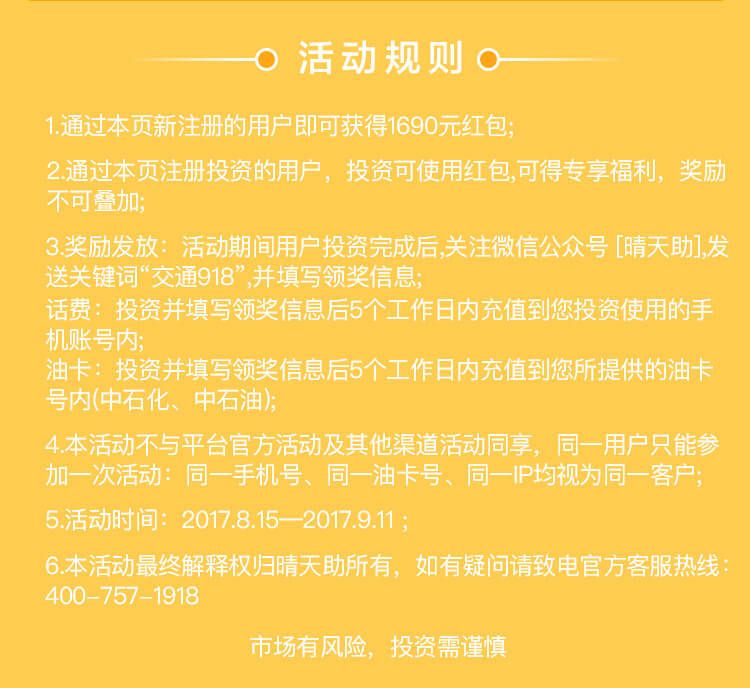
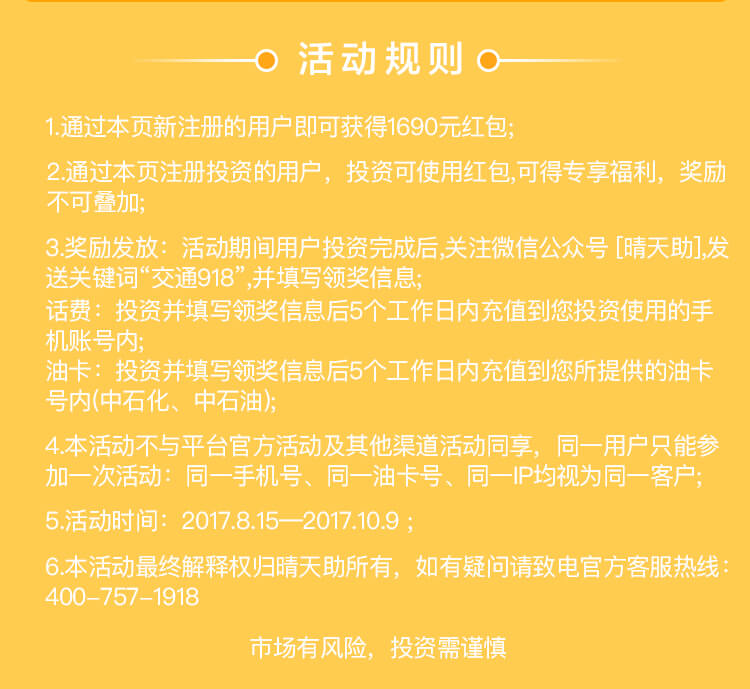
918渠道图更新

diff --git a/channelTraffic/dest2.3/style/main.min.css b/channelTraffic/dest2.3/style/main.min.css
@@ -1,2 +1,2 @@
-body,html{width:100%;height:100%}.get-check,.qtz-promise,body{text-align:center}*{margin:0;padding:0}html{font-size:100px}body{position:relative;font-family:"Helvetica Neue",Helvetica,Arial,"PingFang SC","Hiragino Sans GB","Heiti SC","Microsoft YaHei","WenQuanYi Micro Hei",sans-serif;font-size:24px;font-size:.24rem}a{text-decoration:none;-webkit-tap-highlight-color:transparent}input{outline:0;-webkit-appearance:none;-webkit-tap-highlight-color:rgba(255,255,255,0);font-size:24px;font-size:.24rem}input:focus{border:2px solid #ffc000;border:.02rem solid #ffc000;border-radius:.1rem}::-webkit-scrollbar{width:8px;width:.08rem;margin-right:.08rem}.bottom,.register-form{margin-left:auto;margin-right:auto}::-webkit-scrollbar-thumb{border-radius:.06rem;background-color:#cfcfcf;height:40px;height:.4rem}.landing-container{width:100%;height:auto}.loading-page{width:100%;height:1206px;height:12.06rem;background:url(../assets/landing_page_bg.png) center no-repeat;background-size:7.5rem 12.06rem;position:relative;top:0;overflow:hidden}.fixed-top{width:100%;height:128px;height:1.28rem;background-color:#00f;position:fixed;top:0;z-index:2}.button-red{width:197px;width:1.97rem;height:197px;height:1.97rem;position:absolute;top:920px;top:9.2rem;left:275px;left:2.75rem;-webkit-transform:rotateY(30deg);transform:rotateY(30deg);z-index:2}.landing-red{position:absolute;width:707px;width:7.07rem;height:363px;height:3.63rem;bottom:0;left:21px;left:.21rem;z-index:1}.bottom,.input-container,.register-form,.traffic_from{position:relative}.animationButton{-webkit-animation:flipOutY 1s .2s ease both;animation:flipOutY 1s .2s ease both}@-webkit-keyframes flipOutY{0%{-webkit-transform:scale3d(1,1,1) rotateY(0);transform:scale3d(1,1,1) rotateY(0);opacity:1}10%{-webkit-transform:scale3d(1.2,1.2,1.2) rotateY(0);transform:scale3d(1.2,1.2,1.2) rotateY(0);opacity:1}80%{-webkit-transform:scale3d(1.2,1.2,1.2) rotateY(360deg);transform:scale3d(1.2,1.2,1.2) rotateY(360deg);opacity:1}100%{-webkit-transform:scale3d(1,1,1) rotateY(360deg);transform:scale3d(1,1,1) rotateY(360deg);opacity:1}}@keyframes flipOutY{0%{-webkit-transform:scale3d(1,1,1) rotateY(0);transform:scale3d(1,1,1) rotateY(0);opacity:1}10%{-webkit-transform:scale3d(1.2,1.2,1.2) rotateY(0);transform:scale3d(1.2,1.2,1.2) rotateY(0);opacity:1}80%{-webkit-transform:scale3d(1.2,1.2,1.2) rotateY(360deg);transform:scale3d(1.2,1.2,1.2) rotateY(360deg);opacity:1}100%{-webkit-transform:scale3d(1,1,1) rotateY(360deg);transform:scale3d(1,1,1) rotateY(360deg);opacity:1}}.animationButtonInfinite{-webkit-animation:buttonInfinite 1s ease infinite;animation:buttonInfinite 1s ease infinite}@-webkit-keyframes buttonInfinite{0%{opacity:1;-webkit-transform:scale3d(.9,.9,.9);transform:scale3d(.9,.9,.9)}100%{opacity:.9;-webkit-transform:scale3d(1.1,1.1,1.1);transform:scale3d(1.1,1.1,1.1)}}@keyframes buttonInfinite{0%{opacity:1;-webkit-transform:scale3d(.9,.9,.9);transform:scale3d(.9,.9,.9)}100%{opacity:.9;-webkit-transform:scale3d(1.1,1.1,1.1);transform:scale3d(1.1,1.1,1.1)}}.animationPageUp{-webkit-animation:pageUp 1.5s .2s ease both;animation:pageUp 1.5s .2s ease both}@-webkit-keyframes pageUp{0%{-webkit-transform:translateY(0);transform:translateY(0);-webkit-backface-visibility:hidden}20%{-webkit-transform:translateY(.2rem);transform:translateY(.2rem);-webkit-backface-visibility:hidden}100%{-webkit-transform:translateY(-12.06rem);transform:translateY(-12.06rem);-webkit-backface-visibility:hidden;display:none}}@keyframes pageUp{0%{-webkit-transform:translateY(0);transform:translateY(0);-webkit-backface-visibility:hidden}20%{-webkit-transform:translateY(.2rem);transform:translateY(.2rem);-webkit-backface-visibility:hidden}100%{-webkit-transform:translateY(-12.06rem);transform:translateY(-12.06rem);-webkit-backface-visibility:hidden;display:none}}.animationRegisterUp{-webkit-animation:registerUp 1s 0s ease both;animation:registerUp 1s 0s ease both}@-webkit-keyframes registerUp{0%{-webkit-transform:translateY(12.03rem);transform:translateY(12.03rem)}20%{opacity:0;-webkit-transform:translateY(12.03rem);transform:translateY(12.03rem)}100%{opacity:1;-webkit-transform:translateY(0);transform:translateY(0)}}@keyframes registerUp{0%{-webkit-transform:translateY(12.03rem);transform:translateY(12.03rem)}20%{opacity:0;-webkit-transform:translateY(12.03rem);transform:translateY(12.03rem)}100%{opacity:1;-webkit-transform:translateY(0);transform:translateY(0)}}.bottom{height:auto;width:100%;display:block;background-size:7.5rem 27.03rem}.register-form{width:704px;width:7.04rem;height:855px;height:8.55rem;top:0;border:3px solid #ffb423;border:.03rem solid #ffb423;border-radius:.1rem;background-color:#fff;color:#adadad}.traffic_register_bg{position:relative;width:100%;padding:0;border:0;margin:0;display:block}.traffic_from{width:100%;height:auto;padding-top:.35rem;background-color:#ffcb5b}.register-center{width:660px;width:6.6rem;height:715px;height:7.15rem;margin:0 auto}.qtz-promise{display:block;width:100%;height:76px;height:.76rem;line-height:76px;line-height:.76rem}.input-container{width:100%;height:89px;height:.89rem;margin-top:.5rem}.input-container>p{display:block;position:absolute;width:300px;width:3rem;height:66px;height:.66rem;background:rgba(0,0,0,.5);color:#fff;text-align:center;line-height:66px;line-height:.66rem;top:-33px;top:-.33rem;left:180px;left:1.8rem;border-radius:.15rem}.agree-consent>a,.get-check{color:#ffc000}.input-container>img{position:absolute;width:44px;width:.44rem;height:44px;height:.44rem;top:22px;top:.22rem;right:29px;right:.29rem}.input-same{display:block;width:628px;width:6.28rem;height:86px;height:.86rem;padding-left:.3rem;outline:hidden;border:2px solid #adadad;border:.02rem solid #adadad;border-radius:.1rem}.get-check{width:172px;width:1.72rem;border-left:1px solid #adadad;border-left:.01rem solid #adadad;height:50px;height:.5rem;line-height:50px;line-height:.5rem;position:absolute;top:18px;top:.18rem;right:0}.agree-consent{width:100%;height:72px;height:.72rem;text-align:left;line-height:72px;line-height:.72rem}.now-register{display:block;width:100%;height:97px;height:.97rem;background:url(../assets/register-button.png) center no-repeat;background-size:100% 100%;overflow:hidden}.now-register:hover{-webkit-animation:registerButton .5s .1s ease both;animation:registerButton .5s .1s ease both}@-webkit-keyframes registerButton{0%,100%{background-size:100% 100%}50%{background-size:102% 102%}}@keyframes registerButton{0%,100%{background-size:100% 100%}50%{background-size:102% 102%}}.readyed-register{width:100%;display:block;height:56px;height:.56rem;text-align:center;line-height:56px;line-height:.56rem}.readyed-register>a{padding-left:.22rem;color:#ffc000}.get-red-container{position:relative;width:750px;width:7.5rem;height:1206px;height:12.06rem;overflow:hidden;background:url(../assets/traffic-download-bg.png) center no-repeat;background-size:7.5rem 12.06rem}.download-app-link{position:absolute;display:block;width:568px;width:5.68rem;height:106px;height:1.06rem;background:url(../assets/down-app-button@2x.png) center no-repeat;background-size:100% 100%;top:921px;top:9.21rem;left:100px;left:1rem}.red-rules-but{position:absolute;width:153px;width:1.53rem;height:185px;height:1.85rem;background:url(../assets/red-rules-but@2x.png) center no-repeat;background-size:100% 100%;top:370px;top:3.7rem;right:0;z-index:1}.red-bg-container{display:none;width:750px;width:7.5rem;background:rgba(0,0,0,.6);height:2410px;height:24.1rem;position:fixed;top:0;z-index:2}.rules-list-bg{width:703px;width:7.03rem;height:716px;height:7.16rem;position:absolute;top:90px;top:.9rem;background:url(../assets/red-rule-list@2x.png) center no-repeat;background-size:7.03rem 7.16rem;left:42px;left:.42rem}.rules-black-bg{position:absolute;top:90px;top:.9rem;left:17px;left:.17rem;width:642px;width:6.42rem;height:518px;height:5.18rem;overflow:hidden}.rules-black-bg>div{width:100%;height:518px;height:5.18rem;overflow-x:hidden;overflow-y:scroll}.rules-black-bg>div>img{width:100%;height:1010px;height:10.1rem}.close-bg{width:68px;width:.68rem;height:68px;height:.68rem;position:absolute;left:290px;left:2.9rem;bottom:-68px;bottom:-.68rem;background:url(../assets/close-bg@2x.png) center no-repeat;background-size:100% 100%}.animationRulesText{-webkit-animation:bounceInText 1s .2s ease both;animation:bounceInText 1s .2s ease both}@-webkit-keyframes bounceInText{0%{opacity:0;-webkit-transform:scale(.3);transform:scale(.3)}50%{opacity:1;-webkit-transform:scale(1.05);transform:scale(1.05)}70%{-webkit-transform:scale(.9);transform:scale(.9)}100%{-webkit-transform:scale(1);transform:scale(1)}}@keyframes bounceInText{0%{opacity:0;-webkit-transform:scale(.3);transform:scale(.3)}50%{opacity:1;-webkit-transform:scale(1.05);transform:scale(1.05)}70%{-webkit-transform:scale(.9);transform:scale(.9)}100%{-webkit-transform:scale(1);transform:scale(1)}}.animationRulesOutContent{-webkit-animation:bounceOutContent 1s .2s ease both;animation:bounceOutContent 1s .2s ease both}@-webkit-keyframes bounceOutContent{0%{-webkit-transform:scale(1);transform:scale(1)}25%{-webkit-transform:scale(.95);transform:scale(.95)}50%{opacity:1;-webkit-transform:scale(1.1);transform:scale(1.1)}100%{opacity:0;-webkit-transform:scale(.3);transform:scale(.3)}}@keyframes bounceOutContent{0%{-webkit-transform:scale(1);transform:scale(1)}25%{-webkit-transform:scale(.95);transform:scale(.95)}50%{opacity:1;-webkit-transform:scale(1.1);transform:scale(1.1)}100%{opacity:0;-webkit-transform:scale(.3);transform:scale(.3)}}.download-app-link:focus{-webkit-transform:scale(.98);-ms-transform:scale(.98);transform:scale(.98)}
[1 lines of base64/hex data omitted]
+body,html{width:100%;height:100%}.get-check,.qtz-promise,body{text-align:center}*{margin:0;padding:0}html{font-size:100px}body{position:relative;font-family:"Helvetica Neue",Helvetica,Arial,"PingFang SC","Hiragino Sans GB","Heiti SC","Microsoft YaHei","WenQuanYi Micro Hei",sans-serif;font-size:24px;font-size:.24rem}a{text-decoration:none;-webkit-tap-highlight-color:transparent}input{outline:0;-webkit-appearance:none;-webkit-tap-highlight-color:rgba(255,255,255,0);font-size:24px;font-size:.24rem}input:focus{border:2px solid #ffc000;border:.02rem solid #ffc000;border-radius:.1rem}::-webkit-scrollbar{width:8px;width:.08rem;margin-right:.08rem}.bottom,.register-form{margin-left:auto;margin-right:auto}::-webkit-scrollbar-thumb{border-radius:.06rem;background-color:#cfcfcf;height:40px;height:.4rem}.landing-container{width:100%;height:auto}.loading-page{width:100%;height:1206px;height:12.06rem;background:url(../assets/landing_page_bg.png) center no-repeat;background-size:7.5rem 12.06rem;position:relative;top:0;overflow:hidden}.fixed-top{width:100%;height:128px;height:1.28rem;background-color:#00f;position:fixed;top:0;z-index:2}.button-red{width:197px;width:1.97rem;height:197px;height:1.97rem;position:absolute;top:920px;top:9.2rem;left:275px;left:2.75rem;-webkit-transform:rotateY(30deg);transform:rotateY(30deg);z-index:2}.landing-red{position:absolute;width:707px;width:7.07rem;height:363px;height:3.63rem;bottom:0;left:21px;left:.21rem;z-index:1}.bottom,.input-container,.register-form,.traffic_from{position:relative}.animationButton{-webkit-animation:flipOutY 1s .2s ease both;animation:flipOutY 1s .2s ease both}@-webkit-keyframes flipOutY{0%{-webkit-transform:scale3d(1,1,1) rotateY(0);transform:scale3d(1,1,1) rotateY(0);opacity:1}10%{-webkit-transform:scale3d(1.2,1.2,1.2) rotateY(0);transform:scale3d(1.2,1.2,1.2) rotateY(0);opacity:1}80%{-webkit-transform:scale3d(1.2,1.2,1.2) rotateY(360deg);transform:scale3d(1.2,1.2,1.2) rotateY(360deg);opacity:1}100%{-webkit-transform:scale3d(1,1,1) rotateY(360deg);transform:scale3d(1,1,1) rotateY(360deg);opacity:1}}@keyframes flipOutY{0%{-webkit-transform:scale3d(1,1,1) rotateY(0);transform:scale3d(1,1,1) rotateY(0);opacity:1}10%{-webkit-transform:scale3d(1.2,1.2,1.2) rotateY(0);transform:scale3d(1.2,1.2,1.2) rotateY(0);opacity:1}80%{-webkit-transform:scale3d(1.2,1.2,1.2) rotateY(360deg);transform:scale3d(1.2,1.2,1.2) rotateY(360deg);opacity:1}100%{-webkit-transform:scale3d(1,1,1) rotateY(360deg);transform:scale3d(1,1,1) rotateY(360deg);opacity:1}}.animationButtonInfinite{-webkit-animation:buttonInfinite 1s ease infinite;animation:buttonInfinite 1s ease infinite}@-webkit-keyframes buttonInfinite{0%{opacity:1;-webkit-transform:scale3d(.9,.9,.9);transform:scale3d(.9,.9,.9)}100%{opacity:.9;-webkit-transform:scale3d(1.1,1.1,1.1);transform:scale3d(1.1,1.1,1.1)}}@keyframes buttonInfinite{0%{opacity:1;-webkit-transform:scale3d(.9,.9,.9);transform:scale3d(.9,.9,.9)}100%{opacity:.9;-webkit-transform:scale3d(1.1,1.1,1.1);transform:scale3d(1.1,1.1,1.1)}}.animationPageUp{-webkit-animation:pageUp 1.5s .2s ease both;animation:pageUp 1.5s .2s ease both}@-webkit-keyframes pageUp{0%{-webkit-transform:translateY(0);transform:translateY(0);-webkit-backface-visibility:hidden}20%{-webkit-transform:translateY(.2rem);transform:translateY(.2rem);-webkit-backface-visibility:hidden}100%{-webkit-transform:translateY(-12.06rem);transform:translateY(-12.06rem);-webkit-backface-visibility:hidden;display:none}}@keyframes pageUp{0%{-webkit-transform:translateY(0);transform:translateY(0);-webkit-backface-visibility:hidden}20%{-webkit-transform:translateY(.2rem);transform:translateY(.2rem);-webkit-backface-visibility:hidden}100%{-webkit-transform:translateY(-12.06rem);transform:translateY(-12.06rem);-webkit-backface-visibility:hidden;display:none}}.animationRegisterUp{-webkit-animation:registerUp 1s 0s ease both;animation:registerUp 1s 0s ease both}@-webkit-keyframes registerUp{0%{-webkit-transform:translateY(12.03rem);transform:translateY(12.03rem)}20%{opacity:0;-webkit-transform:translateY(12.03rem);transform:translateY(12.03rem)}100%{opacity:1;-webkit-transform:translateY(0);transform:translateY(0)}}@keyframes registerUp{0%{-webkit-transform:translateY(12.03rem);transform:translateY(12.03rem)}20%{opacity:0;-webkit-transform:translateY(12.03rem);transform:translateY(12.03rem)}100%{opacity:1;-webkit-transform:translateY(0);transform:translateY(0)}}.bottom{height:auto;width:100%;display:block;background-size:7.5rem 27.03rem}.register-form{width:704px;width:7.04rem;height:855px;height:8.55rem;top:0;border:3px solid #ffb423;border:.03rem solid #ffb423;border-radius:.1rem;background-color:#fff;color:#adadad}.traffic_register_bg{position:relative;width:100%;padding:0;border:0;margin:0;display:block}.traffic_from{width:100%;height:auto;padding-top:.5rem;padding-bottom:.1rem;background-color:#ffcb5b}.register-center{width:660px;width:6.6rem;height:715px;height:7.15rem;margin:0 auto}.qtz-promise{display:block;width:100%;height:76px;height:.76rem;line-height:76px;line-height:.76rem}.input-container{width:100%;height:89px;height:.89rem;margin-top:.5rem}.input-container>p{display:block;position:absolute;width:300px;width:3rem;height:66px;height:.66rem;background:rgba(0,0,0,.5);color:#fff;text-align:center;line-height:66px;line-height:.66rem;top:-33px;top:-.33rem;left:180px;left:1.8rem;border-radius:.15rem}.agree-consent>a,.get-check{color:#ffc000}.input-container>img{position:absolute;width:44px;width:.44rem;height:44px;height:.44rem;top:22px;top:.22rem;right:29px;right:.29rem}.input-same{display:block;width:628px;width:6.28rem;height:86px;height:.86rem;padding-left:.3rem;outline:hidden;border:2px solid #adadad;border:.02rem solid #adadad;border-radius:.1rem}.get-check{width:172px;width:1.72rem;border-left:1px solid #adadad;border-left:.01rem solid #adadad;height:50px;height:.5rem;line-height:50px;line-height:.5rem;position:absolute;top:18px;top:.18rem;right:0}.agree-consent{width:100%;height:72px;height:.72rem;text-align:left;line-height:72px;line-height:.72rem}.now-register{display:block;width:100%;height:97px;height:.97rem;background:url(../assets/register-button.png) center no-repeat;background-size:100% 100%;overflow:hidden}.now-register:hover{-webkit-animation:registerButton .5s .1s ease both;animation:registerButton .5s .1s ease both}@-webkit-keyframes registerButton{0%,100%{background-size:100% 100%}50%{background-size:102% 102%}}@keyframes registerButton{0%,100%{background-size:100% 100%}50%{background-size:102% 102%}}.readyed-register{width:100%;display:block;height:56px;height:.56rem;text-align:center;line-height:56px;line-height:.56rem}.readyed-register>a{padding-left:.22rem;color:#ffc000}.get-red-container{position:relative;width:750px;width:7.5rem;height:1206px;height:12.06rem;overflow:hidden;background:url(../assets/traffic-download-bg.png) center no-repeat;background-size:7.5rem 12.06rem}.download-app-link{position:absolute;display:block;width:568px;width:5.68rem;height:106px;height:1.06rem;background:url(../assets/down-app-button@2x.png) center no-repeat;background-size:100% 100%;top:921px;top:9.21rem;left:100px;left:1rem}.red-rules-but{position:absolute;width:153px;width:1.53rem;height:185px;height:1.85rem;background:url(../assets/red-rules-but@2x.png) center no-repeat;background-size:100% 100%;top:370px;top:3.7rem;right:0;z-index:1}.red-bg-container{display:none;width:750px;width:7.5rem;background:rgba(0,0,0,.6);height:2410px;height:24.1rem;position:fixed;top:0;z-index:2}.rules-list-bg{width:703px;width:7.03rem;height:716px;height:7.16rem;position:absolute;top:90px;top:.9rem;background:url(../assets/red-rule-list@2x.png) center no-repeat;background-size:7.03rem 7.16rem;left:42px;left:.42rem}.rules-black-bg{position:absolute;top:90px;top:.9rem;left:17px;left:.17rem;width:642px;width:6.42rem;height:518px;height:5.18rem;overflow:hidden}.rules-black-bg>div{width:100%;height:518px;height:5.18rem;overflow-x:hidden;overflow-y:scroll}.rules-black-bg>div>img{width:100%;height:1010px;height:10.1rem}.close-bg{width:68px;width:.68rem;height:68px;height:.68rem;position:absolute;left:290px;left:2.9rem;bottom:-68px;bottom:-.68rem;background:url(../assets/close-bg@2x.png) center no-repeat;background-size:100% 100%}.animationRulesText{-webkit-animation:bounceInText 1s .2s ease both;animation:bounceInText 1s .2s ease both}@-webkit-keyframes bounceInText{0%{opacity:0;-webkit-transform:scale(.3);transform:scale(.3)}50%{opacity:1;-webkit-transform:scale(1.05);transform:scale(1.05)}70%{-webkit-transform:scale(.9);transform:scale(.9)}100%{-webkit-transform:scale(1);transform:scale(1)}}@keyframes bounceInText{0%{opacity:0;-webkit-transform:scale(.3);transform:scale(.3)}50%{opacity:1;-webkit-transform:scale(1.05);transform:scale(1.05)}70%{-webkit-transform:scale(.9);transform:scale(.9)}100%{-webkit-transform:scale(1);transform:scale(1)}}.animationRulesOutContent{-webkit-animation:bounceOutContent 1s .2s ease both;animation:bounceOutContent 1s .2s ease both}@-webkit-keyframes bounceOutContent{0%{-webkit-transform:scale(1);transform:scale(1)}25%{-webkit-transform:scale(.95);transform:scale(.95)}50%{opacity:1;-webkit-transform:scale(1.1);transform:scale(1.1)}100%{opacity:0;-webkit-transform:scale(.3);transform:scale(.3)}}@keyframes bounceOutContent{0%{-webkit-transform:scale(1);transform:scale(1)}25%{-webkit-transform:scale(.95);transform:scale(.95)}50%{opacity:1;-webkit-transform:scale(1.1);transform:scale(1.1)}100%{opacity:0;-webkit-transform:scale(.3);transform:scale(.3)}}.download-app-link:focus{-webkit-transform:scale(.98);-ms-transform:scale(.98);transform:scale(.98)}
[1 lines of base64/hex data omitted]

diff --git a/channelWeChat/dest2.3/style/main.min.css b/channelWeChat/dest2.3/style/main.min.css
@@ -1,2 +1,2 @@
-body,html{width:100%;height:100%}.get-check,.qtz-promise,body{text-align:center}*{margin:0;padding:0}html{font-size:100px}body{position:relative;font-family:"Helvetica Neue",Helvetica,Arial,"PingFang SC","Hiragino Sans GB","Heiti SC","Microsoft YaHei","WenQuanYi Micro Hei",sans-serif;font-size:24px;font-size:.24rem}a{text-decoration:none;-webkit-tap-highlight-color:transparent}input{outline:0;-webkit-appearance:none;-webkit-tap-highlight-color:rgba(255,255,255,0);font-size:24px;font-size:.24rem}input:focus{border:2px solid #ffc000;border:.02rem solid #ffc000;border-radius:.1rem}::-webkit-scrollbar{width:8px;width:.08rem;margin-right:.08rem}.bottom,.register-form{margin-left:auto;margin-right:auto}::-webkit-scrollbar-thumb{border-radius:.06rem;background-color:#cfcfcf;height:40px;height:.4rem}.landing-container{width:100%;height:auto}.loading-page{width:100%;height:1206px;height:12.06rem;background:url(../assets/landing_page_bg.png) center no-repeat;background-size:7.5rem 12.06rem;position:relative;top:0;overflow:hidden}.fixed-top{width:100%;height:128px;height:1.28rem;background-color:#00f;position:fixed;top:0;z-index:2}.button-red{width:197px;width:1.97rem;height:197px;height:1.97rem;position:absolute;top:920px;top:9.2rem;left:275px;left:2.75rem;-webkit-transform:rotateY(30deg);transform:rotateY(30deg);z-index:2}.landing-red{position:absolute;width:707px;width:7.07rem;height:363px;height:3.63rem;bottom:0;left:21px;left:.21rem;z-index:1}.bottom,.input-container,.register-form,.traffic_from{position:relative}.animationButton{-webkit-animation:flipOutY 1s .2s ease both;animation:flipOutY 1s .2s ease both}@-webkit-keyframes flipOutY{0%{-webkit-transform:scale3d(1,1,1) rotateY(0);transform:scale3d(1,1,1) rotateY(0);opacity:1}10%{-webkit-transform:scale3d(1.2,1.2,1.2) rotateY(0);transform:scale3d(1.2,1.2,1.2) rotateY(0);opacity:1}80%{-webkit-transform:scale3d(1.2,1.2,1.2) rotateY(360deg);transform:scale3d(1.2,1.2,1.2) rotateY(360deg);opacity:1}100%{-webkit-transform:scale3d(1,1,1) rotateY(360deg);transform:scale3d(1,1,1) rotateY(360deg);opacity:1}}@keyframes flipOutY{0%{-webkit-transform:scale3d(1,1,1) rotateY(0);transform:scale3d(1,1,1) rotateY(0);opacity:1}10%{-webkit-transform:scale3d(1.2,1.2,1.2) rotateY(0);transform:scale3d(1.2,1.2,1.2) rotateY(0);opacity:1}80%{-webkit-transform:scale3d(1.2,1.2,1.2) rotateY(360deg);transform:scale3d(1.2,1.2,1.2) rotateY(360deg);opacity:1}100%{-webkit-transform:scale3d(1,1,1) rotateY(360deg);transform:scale3d(1,1,1) rotateY(360deg);opacity:1}}.animationButtonInfinite{-webkit-animation:buttonInfinite 1s ease infinite;animation:buttonInfinite 1s ease infinite}@-webkit-keyframes buttonInfinite{0%{opacity:1;-webkit-transform:scale3d(.9,.9,.9);transform:scale3d(.9,.9,.9)}100%{opacity:.9;-webkit-transform:scale3d(1.1,1.1,1.1);transform:scale3d(1.1,1.1,1.1)}}@keyframes buttonInfinite{0%{opacity:1;-webkit-transform:scale3d(.9,.9,.9);transform:scale3d(.9,.9,.9)}100%{opacity:.9;-webkit-transform:scale3d(1.1,1.1,1.1);transform:scale3d(1.1,1.1,1.1)}}.animationPageUp{-webkit-animation:pageUp 1.5s .2s ease both;animation:pageUp 1.5s .2s ease both}@-webkit-keyframes pageUp{0%{-webkit-transform:translateY(0);transform:translateY(0);-webkit-backface-visibility:hidden}20%{-webkit-transform:translateY(.2rem);transform:translateY(.2rem);-webkit-backface-visibility:hidden}100%{-webkit-transform:translateY(-12.06rem);transform:translateY(-12.06rem);-webkit-backface-visibility:hidden;display:none}}@keyframes pageUp{0%{-webkit-transform:translateY(0);transform:translateY(0);-webkit-backface-visibility:hidden}20%{-webkit-transform:translateY(.2rem);transform:translateY(.2rem);-webkit-backface-visibility:hidden}100%{-webkit-transform:translateY(-12.06rem);transform:translateY(-12.06rem);-webkit-backface-visibility:hidden;display:none}}.animationRegisterUp{-webkit-animation:registerUp 1s 0s ease both;animation:registerUp 1s 0s ease both}@-webkit-keyframes registerUp{0%{-webkit-transform:translateY(12.03rem);transform:translateY(12.03rem)}20%{opacity:0;-webkit-transform:translateY(12.03rem);transform:translateY(12.03rem)}100%{opacity:1;-webkit-transform:translateY(0);transform:translateY(0)}}@keyframes registerUp{0%{-webkit-transform:translateY(12.03rem);transform:translateY(12.03rem)}20%{opacity:0;-webkit-transform:translateY(12.03rem);transform:translateY(12.03rem)}100%{opacity:1;-webkit-transform:translateY(0);transform:translateY(0)}}.bottom{height:auto;width:100%;display:block;background-size:7.5rem 27.03rem}.register-form{width:704px;width:7.04rem;height:855px;height:8.55rem;top:0;border:3px solid #ffb423;border:.03rem solid #ffb423;border-radius:.1rem;background-color:#fff;color:#adadad}.traffic_register_bg{position:relative;width:100%;padding:0;border:0;margin:0;display:block}.traffic_from{width:100%;height:auto;padding-top:.35rem;background-color:#ffcb5b}.register-center{width:660px;width:6.6rem;height:715px;height:7.15rem;margin:0 auto}.qtz-promise{display:block;width:100%;height:76px;height:.76rem;line-height:76px;line-height:.76rem}.input-container{width:100%;height:89px;height:.89rem;margin-top:.5rem}.input-container>p{display:block;position:absolute;width:300px;width:3rem;height:66px;height:.66rem;background:rgba(0,0,0,.5);color:#fff;text-align:center;line-height:66px;line-height:.66rem;top:-33px;top:-.33rem;left:180px;left:1.8rem;border-radius:.15rem}.agree-consent>a,.get-check{color:#ffc000}.input-container>img{position:absolute;width:44px;width:.44rem;height:44px;height:.44rem;top:22px;top:.22rem;right:29px;right:.29rem}.input-same{display:block;width:628px;width:6.28rem;height:86px;height:.86rem;padding-left:.3rem;outline:hidden;border:2px solid #adadad;border:.02rem solid #adadad;border-radius:.1rem}.get-check{width:172px;width:1.72rem;border-left:1px solid #adadad;border-left:.01rem solid #adadad;height:50px;height:.5rem;line-height:50px;line-height:.5rem;position:absolute;top:18px;top:.18rem;right:0}.agree-consent{width:100%;height:72px;height:.72rem;text-align:left;line-height:72px;line-height:.72rem}.now-register{display:block;width:100%;height:97px;height:.97rem;background:url(../assets/register-button.png) center no-repeat;background-size:100% 100%;overflow:hidden}.now-register:hover{-webkit-animation:registerButton .5s .1s ease both;animation:registerButton .5s .1s ease both}@-webkit-keyframes registerButton{0%,100%{background-size:100% 100%}50%{background-size:102% 102%}}@keyframes registerButton{0%,100%{background-size:100% 100%}50%{background-size:102% 102%}}.readyed-register{width:100%;display:block;height:56px;height:.56rem;text-align:center;line-height:56px;line-height:.56rem}.readyed-register>a{padding-left:.22rem;color:#ffc000}.get-red-container{position:relative;width:750px;width:7.5rem;height:1206px;height:12.06rem;overflow:hidden;background:url(../assets/traffic-download-bg.png) center no-repeat;background-size:7.5rem 12.06rem}.download-app-link{position:absolute;display:block;width:568px;width:5.68rem;height:106px;height:1.06rem;background:url(../assets/down-app-button@2x.png) center no-repeat;background-size:100% 100%;top:921px;top:9.21rem;left:100px;left:1rem}.red-rules-but{position:absolute;width:153px;width:1.53rem;height:185px;height:1.85rem;background:url(../assets/red-rules-but@2x.png) center no-repeat;background-size:100% 100%;top:370px;top:3.7rem;right:0;z-index:1}.red-bg-container{display:none;width:750px;width:7.5rem;background:rgba(0,0,0,.6);height:2410px;height:24.1rem;position:fixed;top:0;z-index:2}.rules-list-bg{width:703px;width:7.03rem;height:716px;height:7.16rem;position:absolute;top:90px;top:.9rem;background:url(../assets/red-rule-list@2x.png) center no-repeat;background-size:7.03rem 7.16rem;left:42px;left:.42rem}.rules-black-bg{position:absolute;top:90px;top:.9rem;left:17px;left:.17rem;width:642px;width:6.42rem;height:518px;height:5.18rem;overflow:hidden}.rules-black-bg>div{width:100%;height:518px;height:5.18rem;overflow-x:hidden;overflow-y:scroll}.rules-black-bg>div>img{width:100%;height:1010px;height:10.1rem}.close-bg{width:68px;width:.68rem;height:68px;height:.68rem;position:absolute;left:290px;left:2.9rem;bottom:-68px;bottom:-.68rem;background:url(../assets/close-bg@2x.png) center no-repeat;background-size:100% 100%}.animationRulesText{-webkit-animation:bounceInText 1s .2s ease both;animation:bounceInText 1s .2s ease both}@-webkit-keyframes bounceInText{0%{opacity:0;-webkit-transform:scale(.3);transform:scale(.3)}50%{opacity:1;-webkit-transform:scale(1.05);transform:scale(1.05)}70%{-webkit-transform:scale(.9);transform:scale(.9)}100%{-webkit-transform:scale(1);transform:scale(1)}}@keyframes bounceInText{0%{opacity:0;-webkit-transform:scale(.3);transform:scale(.3)}50%{opacity:1;-webkit-transform:scale(1.05);transform:scale(1.05)}70%{-webkit-transform:scale(.9);transform:scale(.9)}100%{-webkit-transform:scale(1);transform:scale(1)}}.animationRulesOutContent{-webkit-animation:bounceOutContent 1s .2s ease both;animation:bounceOutContent 1s .2s ease both}@-webkit-keyframes bounceOutContent{0%{-webkit-transform:scale(1);transform:scale(1)}25%{-webkit-transform:scale(.95);transform:scale(.95)}50%{opacity:1;-webkit-transform:scale(1.1);transform:scale(1.1)}100%{opacity:0;-webkit-transform:scale(.3);transform:scale(.3)}}@keyframes bounceOutContent{0%{-webkit-transform:scale(1);transform:scale(1)}25%{-webkit-transform:scale(.95);transform:scale(.95)}50%{opacity:1;-webkit-transform:scale(1.1);transform:scale(1.1)}100%{opacity:0;-webkit-transform:scale(.3);transform:scale(.3)}}.download-app-link:focus{-webkit-transform:scale(.98);-ms-transform:scale(.98);transform:scale(.98)}
[1 lines of base64/hex data omitted]
+body,html{width:100%;height:100%}.get-check,.qtz-promise,body{text-align:center}*{margin:0;padding:0}html{font-size:100px}body{position:relative;font-family:"Helvetica Neue",Helvetica,Arial,"PingFang SC","Hiragino Sans GB","Heiti SC","Microsoft YaHei","WenQuanYi Micro Hei",sans-serif;font-size:24px;font-size:.24rem}a{text-decoration:none;-webkit-tap-highlight-color:transparent}input{outline:0;-webkit-appearance:none;-webkit-tap-highlight-color:rgba(255,255,255,0);font-size:24px;font-size:.24rem}input:focus{border:2px solid #ffc000;border:.02rem solid #ffc000;border-radius:.1rem}::-webkit-scrollbar{width:8px;width:.08rem;margin-right:.08rem}.bottom,.register-form{margin-left:auto;margin-right:auto}::-webkit-scrollbar-thumb{border-radius:.06rem;background-color:#cfcfcf;height:40px;height:.4rem}.landing-container{width:100%;height:auto}.loading-page{width:100%;height:1206px;height:12.06rem;background:url(../assets/landing_page_bg.png) center no-repeat;background-size:7.5rem 12.06rem;position:relative;top:0;overflow:hidden}.fixed-top{width:100%;height:128px;height:1.28rem;background-color:#00f;position:fixed;top:0;z-index:2}.button-red{width:197px;width:1.97rem;height:197px;height:1.97rem;position:absolute;top:920px;top:9.2rem;left:275px;left:2.75rem;-webkit-transform:rotateY(30deg);transform:rotateY(30deg);z-index:2}.landing-red{position:absolute;width:707px;width:7.07rem;height:363px;height:3.63rem;bottom:0;left:21px;left:.21rem;z-index:1}.bottom,.input-container,.register-form,.traffic_from{position:relative}.animationButton{-webkit-animation:flipOutY 1s .2s ease both;animation:flipOutY 1s .2s ease both}@-webkit-keyframes flipOutY{0%{-webkit-transform:scale3d(1,1,1) rotateY(0);transform:scale3d(1,1,1) rotateY(0);opacity:1}10%{-webkit-transform:scale3d(1.2,1.2,1.2) rotateY(0);transform:scale3d(1.2,1.2,1.2) rotateY(0);opacity:1}80%{-webkit-transform:scale3d(1.2,1.2,1.2) rotateY(360deg);transform:scale3d(1.2,1.2,1.2) rotateY(360deg);opacity:1}100%{-webkit-transform:scale3d(1,1,1) rotateY(360deg);transform:scale3d(1,1,1) rotateY(360deg);opacity:1}}@keyframes flipOutY{0%{-webkit-transform:scale3d(1,1,1) rotateY(0);transform:scale3d(1,1,1) rotateY(0);opacity:1}10%{-webkit-transform:scale3d(1.2,1.2,1.2) rotateY(0);transform:scale3d(1.2,1.2,1.2) rotateY(0);opacity:1}80%{-webkit-transform:scale3d(1.2,1.2,1.2) rotateY(360deg);transform:scale3d(1.2,1.2,1.2) rotateY(360deg);opacity:1}100%{-webkit-transform:scale3d(1,1,1) rotateY(360deg);transform:scale3d(1,1,1) rotateY(360deg);opacity:1}}.animationButtonInfinite{-webkit-animation:buttonInfinite 1s ease infinite;animation:buttonInfinite 1s ease infinite}@-webkit-keyframes buttonInfinite{0%{opacity:1;-webkit-transform:scale3d(.9,.9,.9);transform:scale3d(.9,.9,.9)}100%{opacity:.9;-webkit-transform:scale3d(1.1,1.1,1.1);transform:scale3d(1.1,1.1,1.1)}}@keyframes buttonInfinite{0%{opacity:1;-webkit-transform:scale3d(.9,.9,.9);transform:scale3d(.9,.9,.9)}100%{opacity:.9;-webkit-transform:scale3d(1.1,1.1,1.1);transform:scale3d(1.1,1.1,1.1)}}.animationPageUp{-webkit-animation:pageUp 1.5s .2s ease both;animation:pageUp 1.5s .2s ease both}@-webkit-keyframes pageUp{0%{-webkit-transform:translateY(0);transform:translateY(0);-webkit-backface-visibility:hidden}20%{-webkit-transform:translateY(.2rem);transform:translateY(.2rem);-webkit-backface-visibility:hidden}100%{-webkit-transform:translateY(-12.06rem);transform:translateY(-12.06rem);-webkit-backface-visibility:hidden;display:none}}@keyframes pageUp{0%{-webkit-transform:translateY(0);transform:translateY(0);-webkit-backface-visibility:hidden}20%{-webkit-transform:translateY(.2rem);transform:translateY(.2rem);-webkit-backface-visibility:hidden}100%{-webkit-transform:translateY(-12.06rem);transform:translateY(-12.06rem);-webkit-backface-visibility:hidden;display:none}}.animationRegisterUp{-webkit-animation:registerUp 1s 0s ease both;animation:registerUp 1s 0s ease both}@-webkit-keyframes registerUp{0%{-webkit-transform:translateY(12.03rem);transform:translateY(12.03rem)}20%{opacity:0;-webkit-transform:translateY(12.03rem);transform:translateY(12.03rem)}100%{opacity:1;-webkit-transform:translateY(0);transform:translateY(0)}}@keyframes registerUp{0%{-webkit-transform:translateY(12.03rem);transform:translateY(12.03rem)}20%{opacity:0;-webkit-transform:translateY(12.03rem);transform:translateY(12.03rem)}100%{opacity:1;-webkit-transform:translateY(0);transform:translateY(0)}}.bottom{height:auto;width:100%;display:block;background-size:7.5rem 27.03rem}.register-form{width:704px;width:7.04rem;height:855px;height:8.55rem;top:0;border:3px solid #ffb423;border:.03rem solid #ffb423;border-radius:.1rem;background-color:#fff;color:#adadad}.traffic_register_bg{position:relative;width:100%;padding:0;border:0;margin:0;display:block}.traffic_from{width:100%;height:auto;padding-top:.5rem;padding-bottom:.1rem;background-color:#ffcb5b}.register-center{width:660px;width:6.6rem;height:715px;height:7.15rem;margin:0 auto}.qtz-promise{display:block;width:100%;height:76px;height:.76rem;line-height:76px;line-height:.76rem}.input-container{width:100%;height:89px;height:.89rem;margin-top:.5rem}.input-container>p{display:block;position:absolute;width:300px;width:3rem;height:66px;height:.66rem;background:rgba(0,0,0,.5);color:#fff;text-align:center;line-height:66px;line-height:.66rem;top:-33px;top:-.33rem;left:180px;left:1.8rem;border-radius:.15rem}.agree-consent>a,.get-check{color:#ffc000}.input-container>img{position:absolute;width:44px;width:.44rem;height:44px;height:.44rem;top:22px;top:.22rem;right:29px;right:.29rem}.input-same{display:block;width:628px;width:6.28rem;height:86px;height:.86rem;padding-left:.3rem;outline:hidden;border:2px solid #adadad;border:.02rem solid #adadad;border-radius:.1rem}.get-check{width:172px;width:1.72rem;border-left:1px solid #adadad;border-left:.01rem solid #adadad;height:50px;height:.5rem;line-height:50px;line-height:.5rem;position:absolute;top:18px;top:.18rem;right:0}.agree-consent{width:100%;height:72px;height:.72rem;text-align:left;line-height:72px;line-height:.72rem}.now-register{display:block;width:100%;height:97px;height:.97rem;background:url(../assets/register-button.png) center no-repeat;background-size:100% 100%;overflow:hidden}.now-register:hover{-webkit-animation:registerButton .5s .1s ease both;animation:registerButton .5s .1s ease both}@-webkit-keyframes registerButton{0%,100%{background-size:100% 100%}50%{background-size:102% 102%}}@keyframes registerButton{0%,100%{background-size:100% 100%}50%{background-size:102% 102%}}.readyed-register{width:100%;display:block;height:56px;height:.56rem;text-align:center;line-height:56px;line-height:.56rem}.readyed-register>a{padding-left:.22rem;color:#ffc000}.get-red-container{position:relative;width:750px;width:7.5rem;height:1206px;height:12.06rem;overflow:hidden;background:url(../assets/traffic-download-bg.png) center no-repeat;background-size:7.5rem 12.06rem}.download-app-link{position:absolute;display:block;width:568px;width:5.68rem;height:106px;height:1.06rem;background:url(../assets/down-app-button@2x.png) center no-repeat;background-size:100% 100%;top:921px;top:9.21rem;left:100px;left:1rem}.red-rules-but{position:absolute;width:153px;width:1.53rem;height:185px;height:1.85rem;background:url(../assets/red-rules-but@2x.png) center no-repeat;background-size:100% 100%;top:370px;top:3.7rem;right:0;z-index:1}.red-bg-container{display:none;width:750px;width:7.5rem;background:rgba(0,0,0,.6);height:2410px;height:24.1rem;position:fixed;top:0;z-index:2}.rules-list-bg{width:703px;width:7.03rem;height:716px;height:7.16rem;position:absolute;top:90px;top:.9rem;background:url(../assets/red-rule-list@2x.png) center no-repeat;background-size:7.03rem 7.16rem;left:42px;left:.42rem}.rules-black-bg{position:absolute;top:90px;top:.9rem;left:17px;left:.17rem;width:642px;width:6.42rem;height:518px;height:5.18rem;overflow:hidden}.rules-black-bg>div{width:100%;height:518px;height:5.18rem;overflow-x:hidden;overflow-y:scroll}.rules-black-bg>div>img{width:100%;height:1010px;height:10.1rem}.close-bg{width:68px;width:.68rem;height:68px;height:.68rem;position:absolute;left:290px;left:2.9rem;bottom:-68px;bottom:-.68rem;background:url(../assets/close-bg@2x.png) center no-repeat;background-size:100% 100%}.animationRulesText{-webkit-animation:bounceInText 1s .2s ease both;animation:bounceInText 1s .2s ease both}@-webkit-keyframes bounceInText{0%{opacity:0;-webkit-transform:scale(.3);transform:scale(.3)}50%{opacity:1;-webkit-transform:scale(1.05);transform:scale(1.05)}70%{-webkit-transform:scale(.9);transform:scale(.9)}100%{-webkit-transform:scale(1);transform:scale(1)}}@keyframes bounceInText{0%{opacity:0;-webkit-transform:scale(.3);transform:scale(.3)}50%{opacity:1;-webkit-transform:scale(1.05);transform:scale(1.05)}70%{-webkit-transform:scale(.9);transform:scale(.9)}100%{-webkit-transform:scale(1);transform:scale(1)}}.animationRulesOutContent{-webkit-animation:bounceOutContent 1s .2s ease both;animation:bounceOutContent 1s .2s ease both}@-webkit-keyframes bounceOutContent{0%{-webkit-transform:scale(1);transform:scale(1)}25%{-webkit-transform:scale(.95);transform:scale(.95)}50%{opacity:1;-webkit-transform:scale(1.1);transform:scale(1.1)}100%{opacity:0;-webkit-transform:scale(.3);transform:scale(.3)}}@keyframes bounceOutContent{0%{-webkit-transform:scale(1);transform:scale(1)}25%{-webkit-transform:scale(.95);transform:scale(.95)}50%{opacity:1;-webkit-transform:scale(1.1);transform:scale(1.1)}100%{opacity:0;-webkit-transform:scale(.3);transform:scale(.3)}}.download-app-link:focus{-webkit-transform:scale(.98);-ms-transform:scale(.98);transform:scale(.98)}
[1 lines of base64/hex data omitted]

diff --git a/channelTraffic/src2.3/style/main.css b/channelTraffic/src2.3/style/main.css
@@ -143,7 +143,8 @@ input:focus{
     position: relative;
     /*top: 9.50rem;*/
     height: auto;
-    padding-top: 0.35rem;
+    padding-top: 0.50rem;
+    padding-bottom: 0.10rem;
     background-color: #ffcb5b;
 }
 .register-center{

diff --git a/channelWeChat/src2.3/style/main.css b/channelWeChat/src2.3/style/main.css
@@ -143,7 +143,8 @@ input:focus{
     position: relative;
     /*top: 9.50rem;*/
     height: auto;
-    padding-top: 0.35rem;
+    padding-top: 0.50rem;
+    padding-bottom: 0.10rem;
     background-color: #ffcb5b;
 }
 .register-center{
